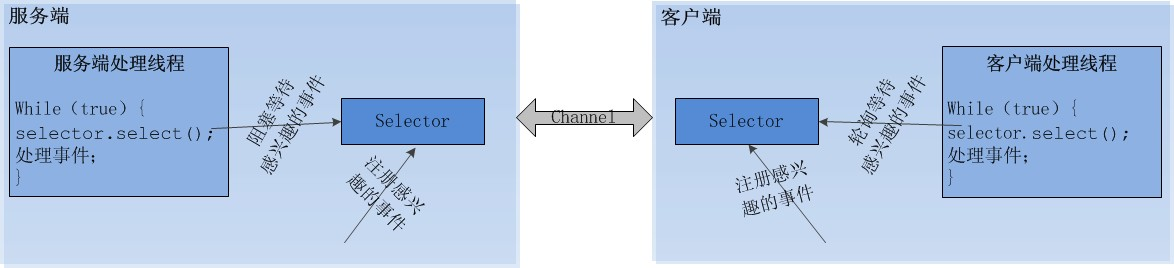
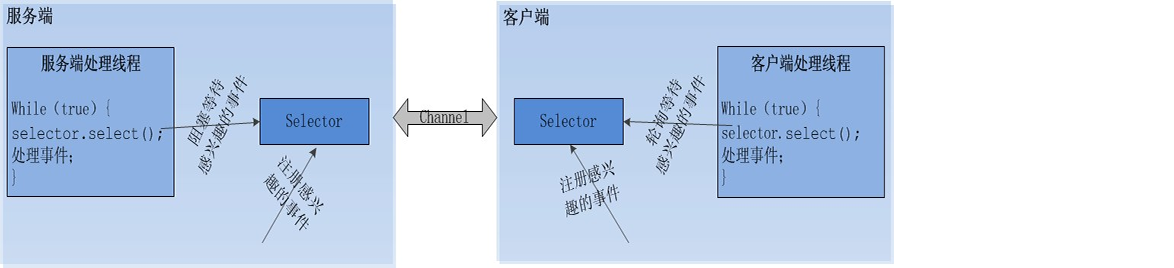
博客16 修改

diff --git a/home.html b/home.html
@@ -182,6 +182,15 @@ function getByClass(oParent,sClass)
 
   <ul class="cbp_tmtimeline">
 	 <li>
+		<time class="cbp_tmtime"><span>2-27</span> <span>2018</span></time>
+		<div class="cbp_tmicon"></div>
+		 <div class="cbp_tmlabel" data-scroll-reveal="enter right over 1s" >
+			<h2>IO通信————bio,nio</h2>
+		  <p><span class="blogpic"><a href="/">
+		    <img src="other/set_blog/18.2.27/img/blog16.jpg"></a></span>我发你信息了，你收到了吗?</p>
+		 <a href="other/set_blog/18.2.27/setup_blog16.html" target="_blank" class="readmore">阅读全文&gt;&gt;</a> </div>
+	 </li>
+	 <li>
 		<time class="cbp_tmtime"><span>1-30</span> <span>2018</span></time>
 		<div class="cbp_tmicon"></div>
 		 <div class="cbp_tmlabel" data-scroll-reveal="enter right over 1s" >

diff --git a/other/set_blog/18.2.27/setup_blog16.html b/other/set_blog/18.2.27/setup_blog16.html
@@ -71,7 +71,7 @@
 		<h3>selector</h3><br>
 		<p>
 		Selector运行单线程处理多个Channel，如果你的应用打开了多个通道，但每个连接的流量都很低，使用Selector就会很方便。<br>
-		<img src="img/selector.png"/>
+		<br><img src="img/selector.png"/><br>
 		这个方法会一直阻塞到某个注册的通道有事件就绪。一旦这个方法返回，线程就可以处理这些事件，事件的例子有如新的连接进来、数据接收等。<br>
 		每次向选择器注册通道时就会创建一个选择键(selectionKey)，注册完成后就会在另一端的select()方法之后执行对应的选择键的操作。代码如下:
 		&nbsp;&nbsp;&nbsp;&nbsp;Set<SelectionKey> keys = selector.selectedKeys();<br>
